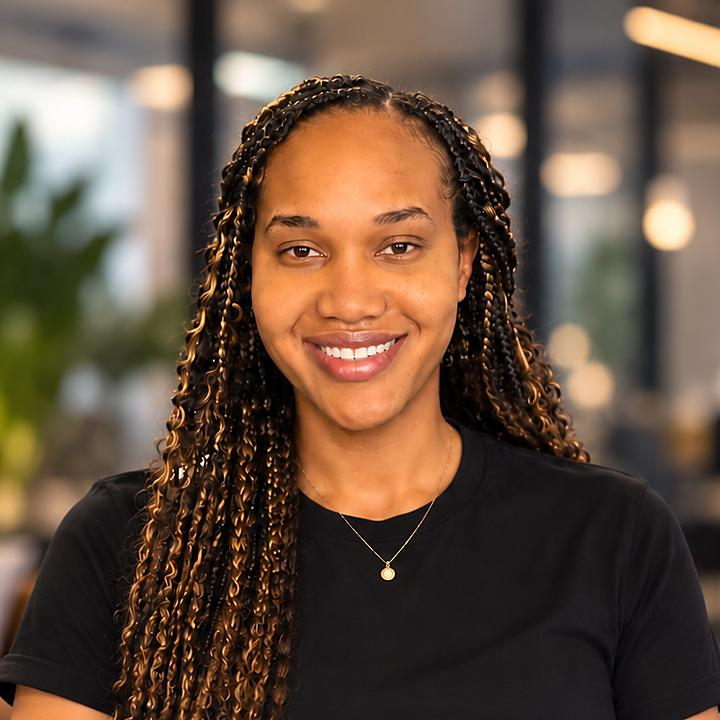
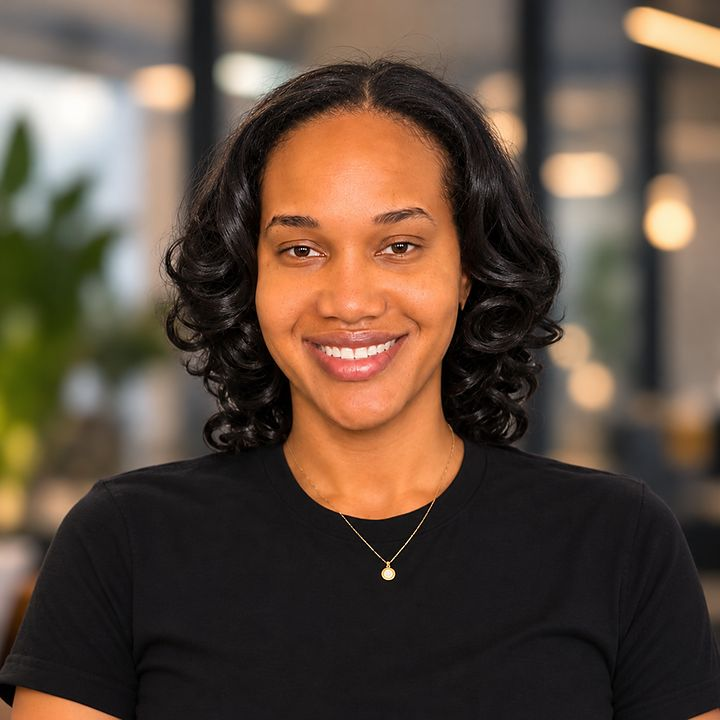
Update the portfolio headshot.
Claude-Session: https://claude.ai/code/session_012Qh7BgGKDPQnNivwTMmPRp

diff --git a/index.html b/index.html
@@ -9,7 +9,7 @@
   <link rel="preconnect" href="https://fonts.gstatic.com" crossorigin />
   <link href="https://fonts.googleapis.com/css2?family=Inter:wght@400;500;600;700;800&display=swap" rel="stylesheet" />
   <link href="https://fonts.googleapis.com/css2?family=Material+Symbols+Rounded:opsz,wght,FILL,GRAD@20,500,0,0&icon_names=arrow_downward,arrow_outward,chevron_left,chevron_right,play_arrow&display=block" rel="stylesheet" />
-  <link rel="preload" as="image" href="assets/whitney-headshot.jpg" fetchpriority="high" />
+  <link rel="preload" as="image" href="assets/whitney-headshot.jpg?v=20261128" fetchpriority="high" />
   <style>
     :root {
       --ink: #eef2f5;
@@ -1109,7 +1109,7 @@
       </div>
       <div class="portrait">
         <img
-          src="assets/whitney-headshot.jpg?v=20261030c"
+          src="assets/whitney-headshot.jpg?v=20261128"
           alt="Whitney Kotlewski"
           width="720"
           height="720"
